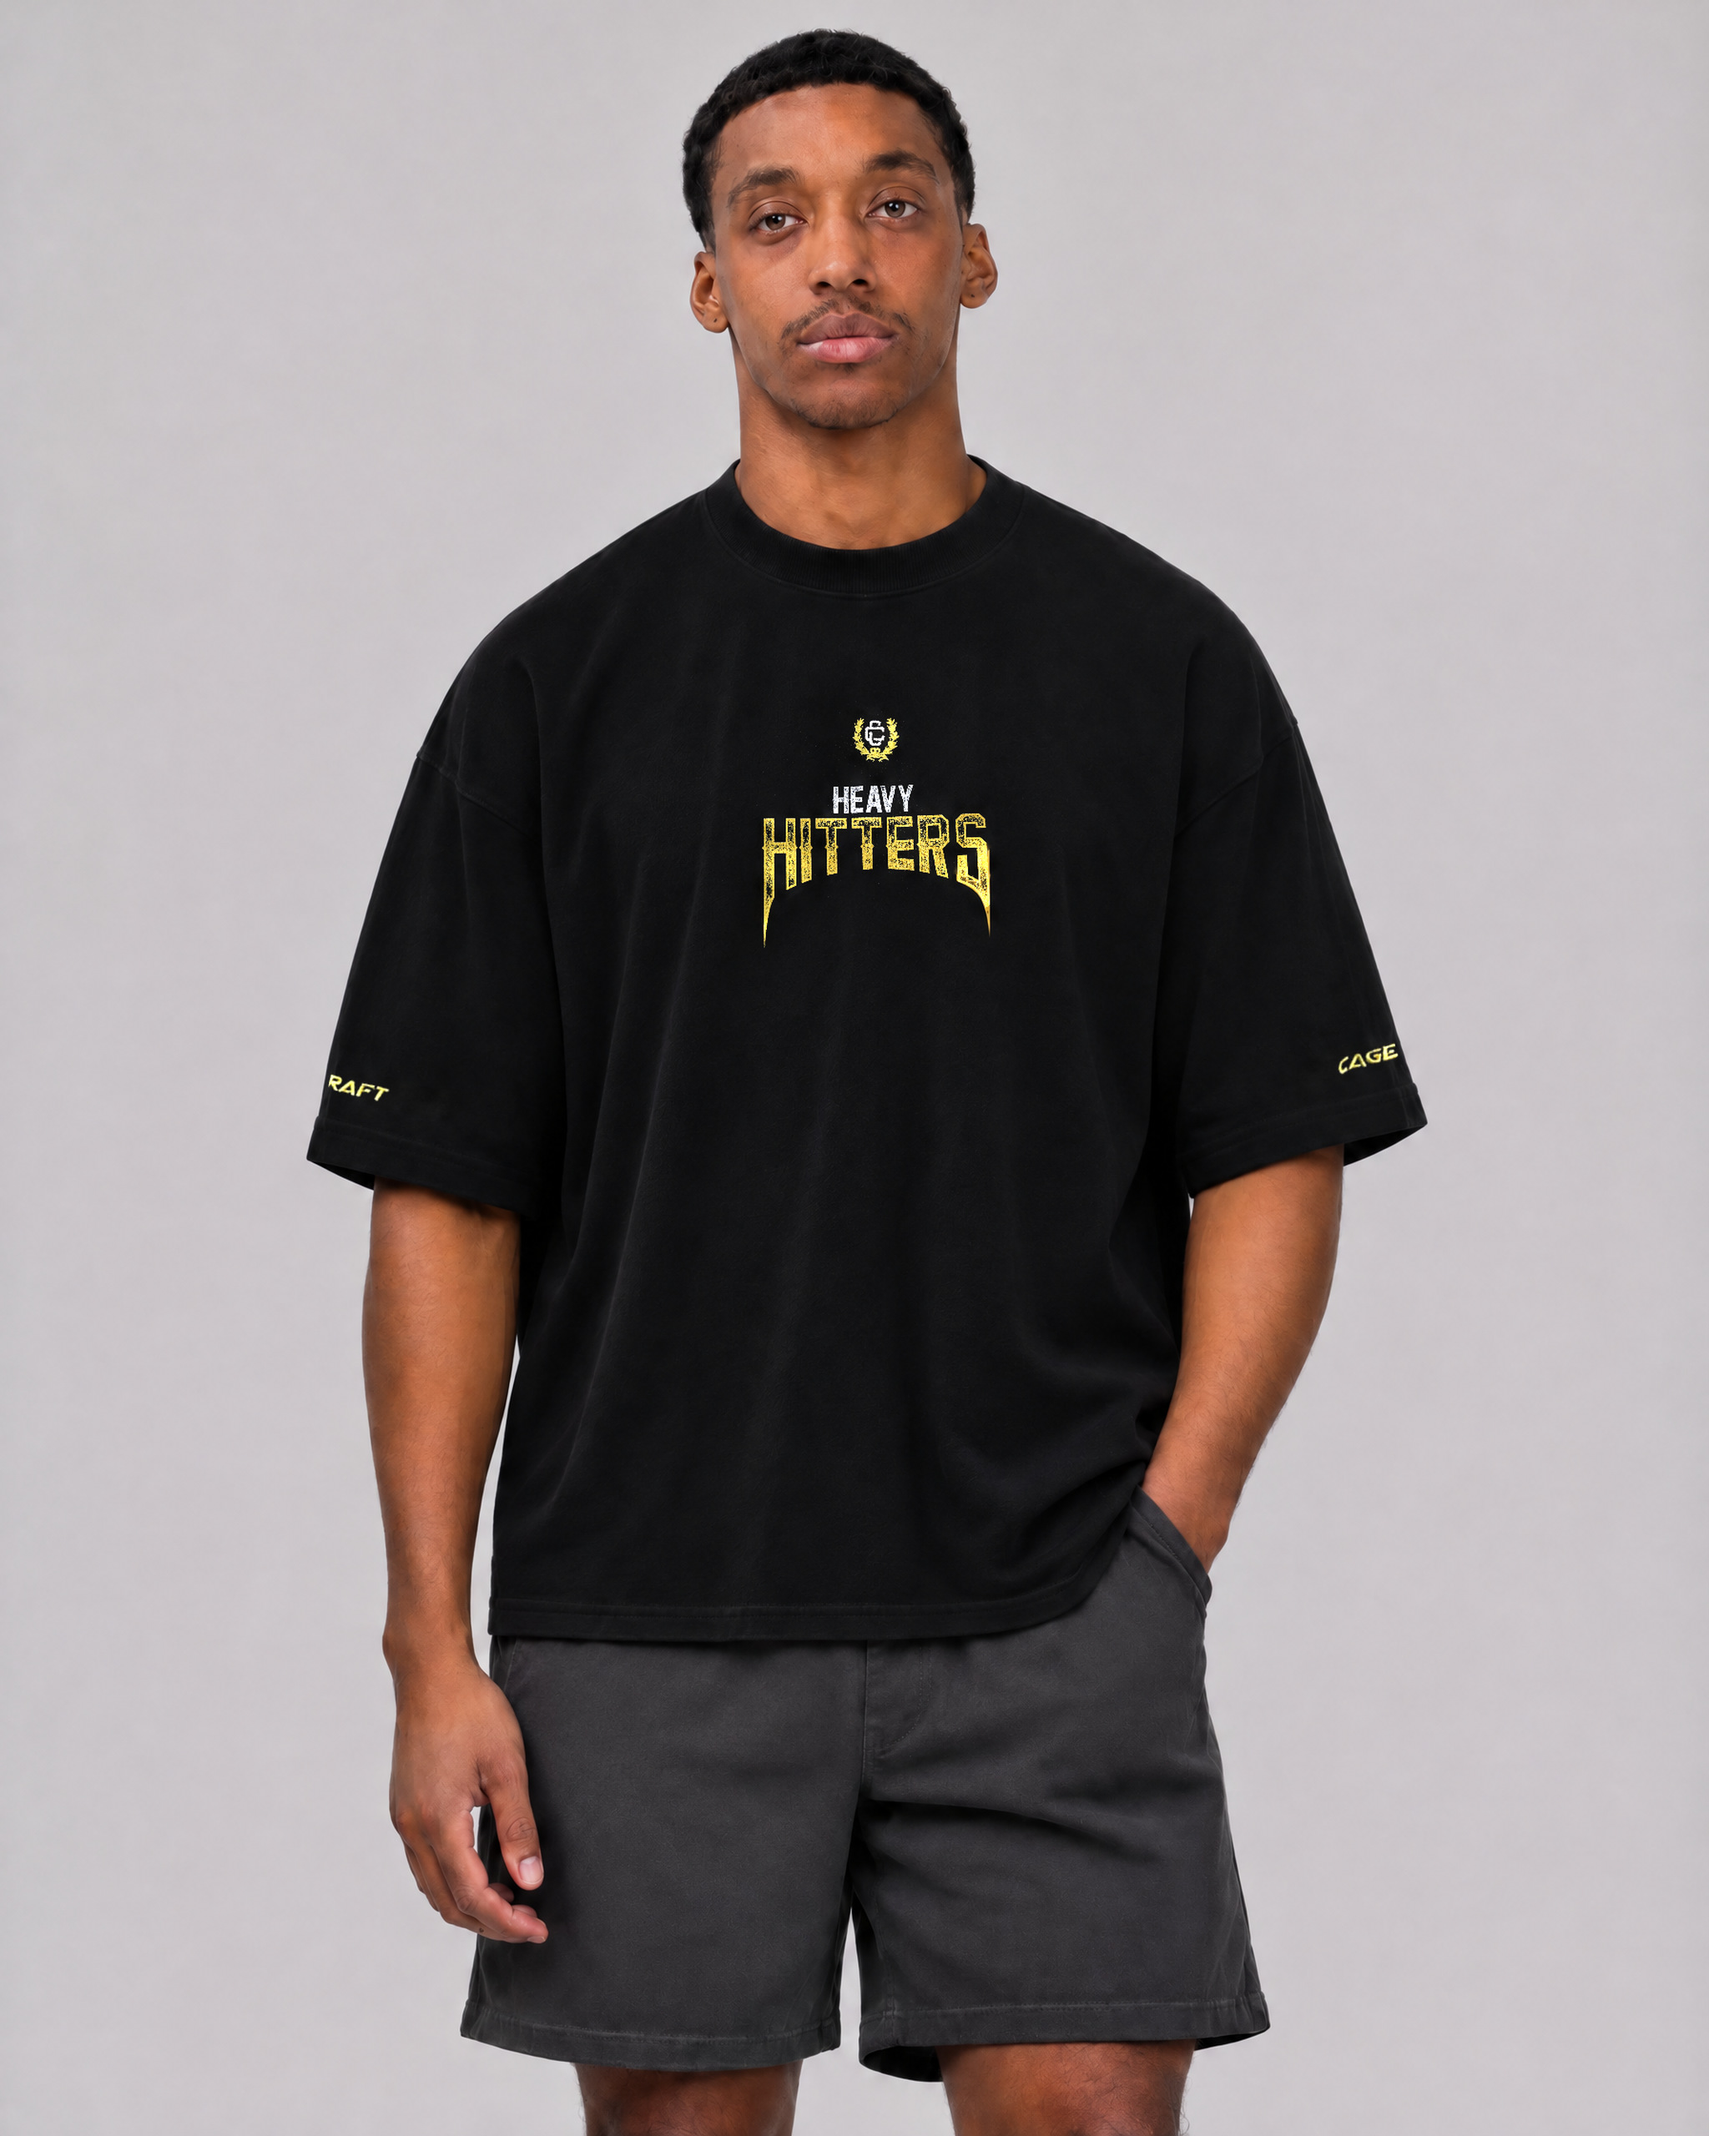
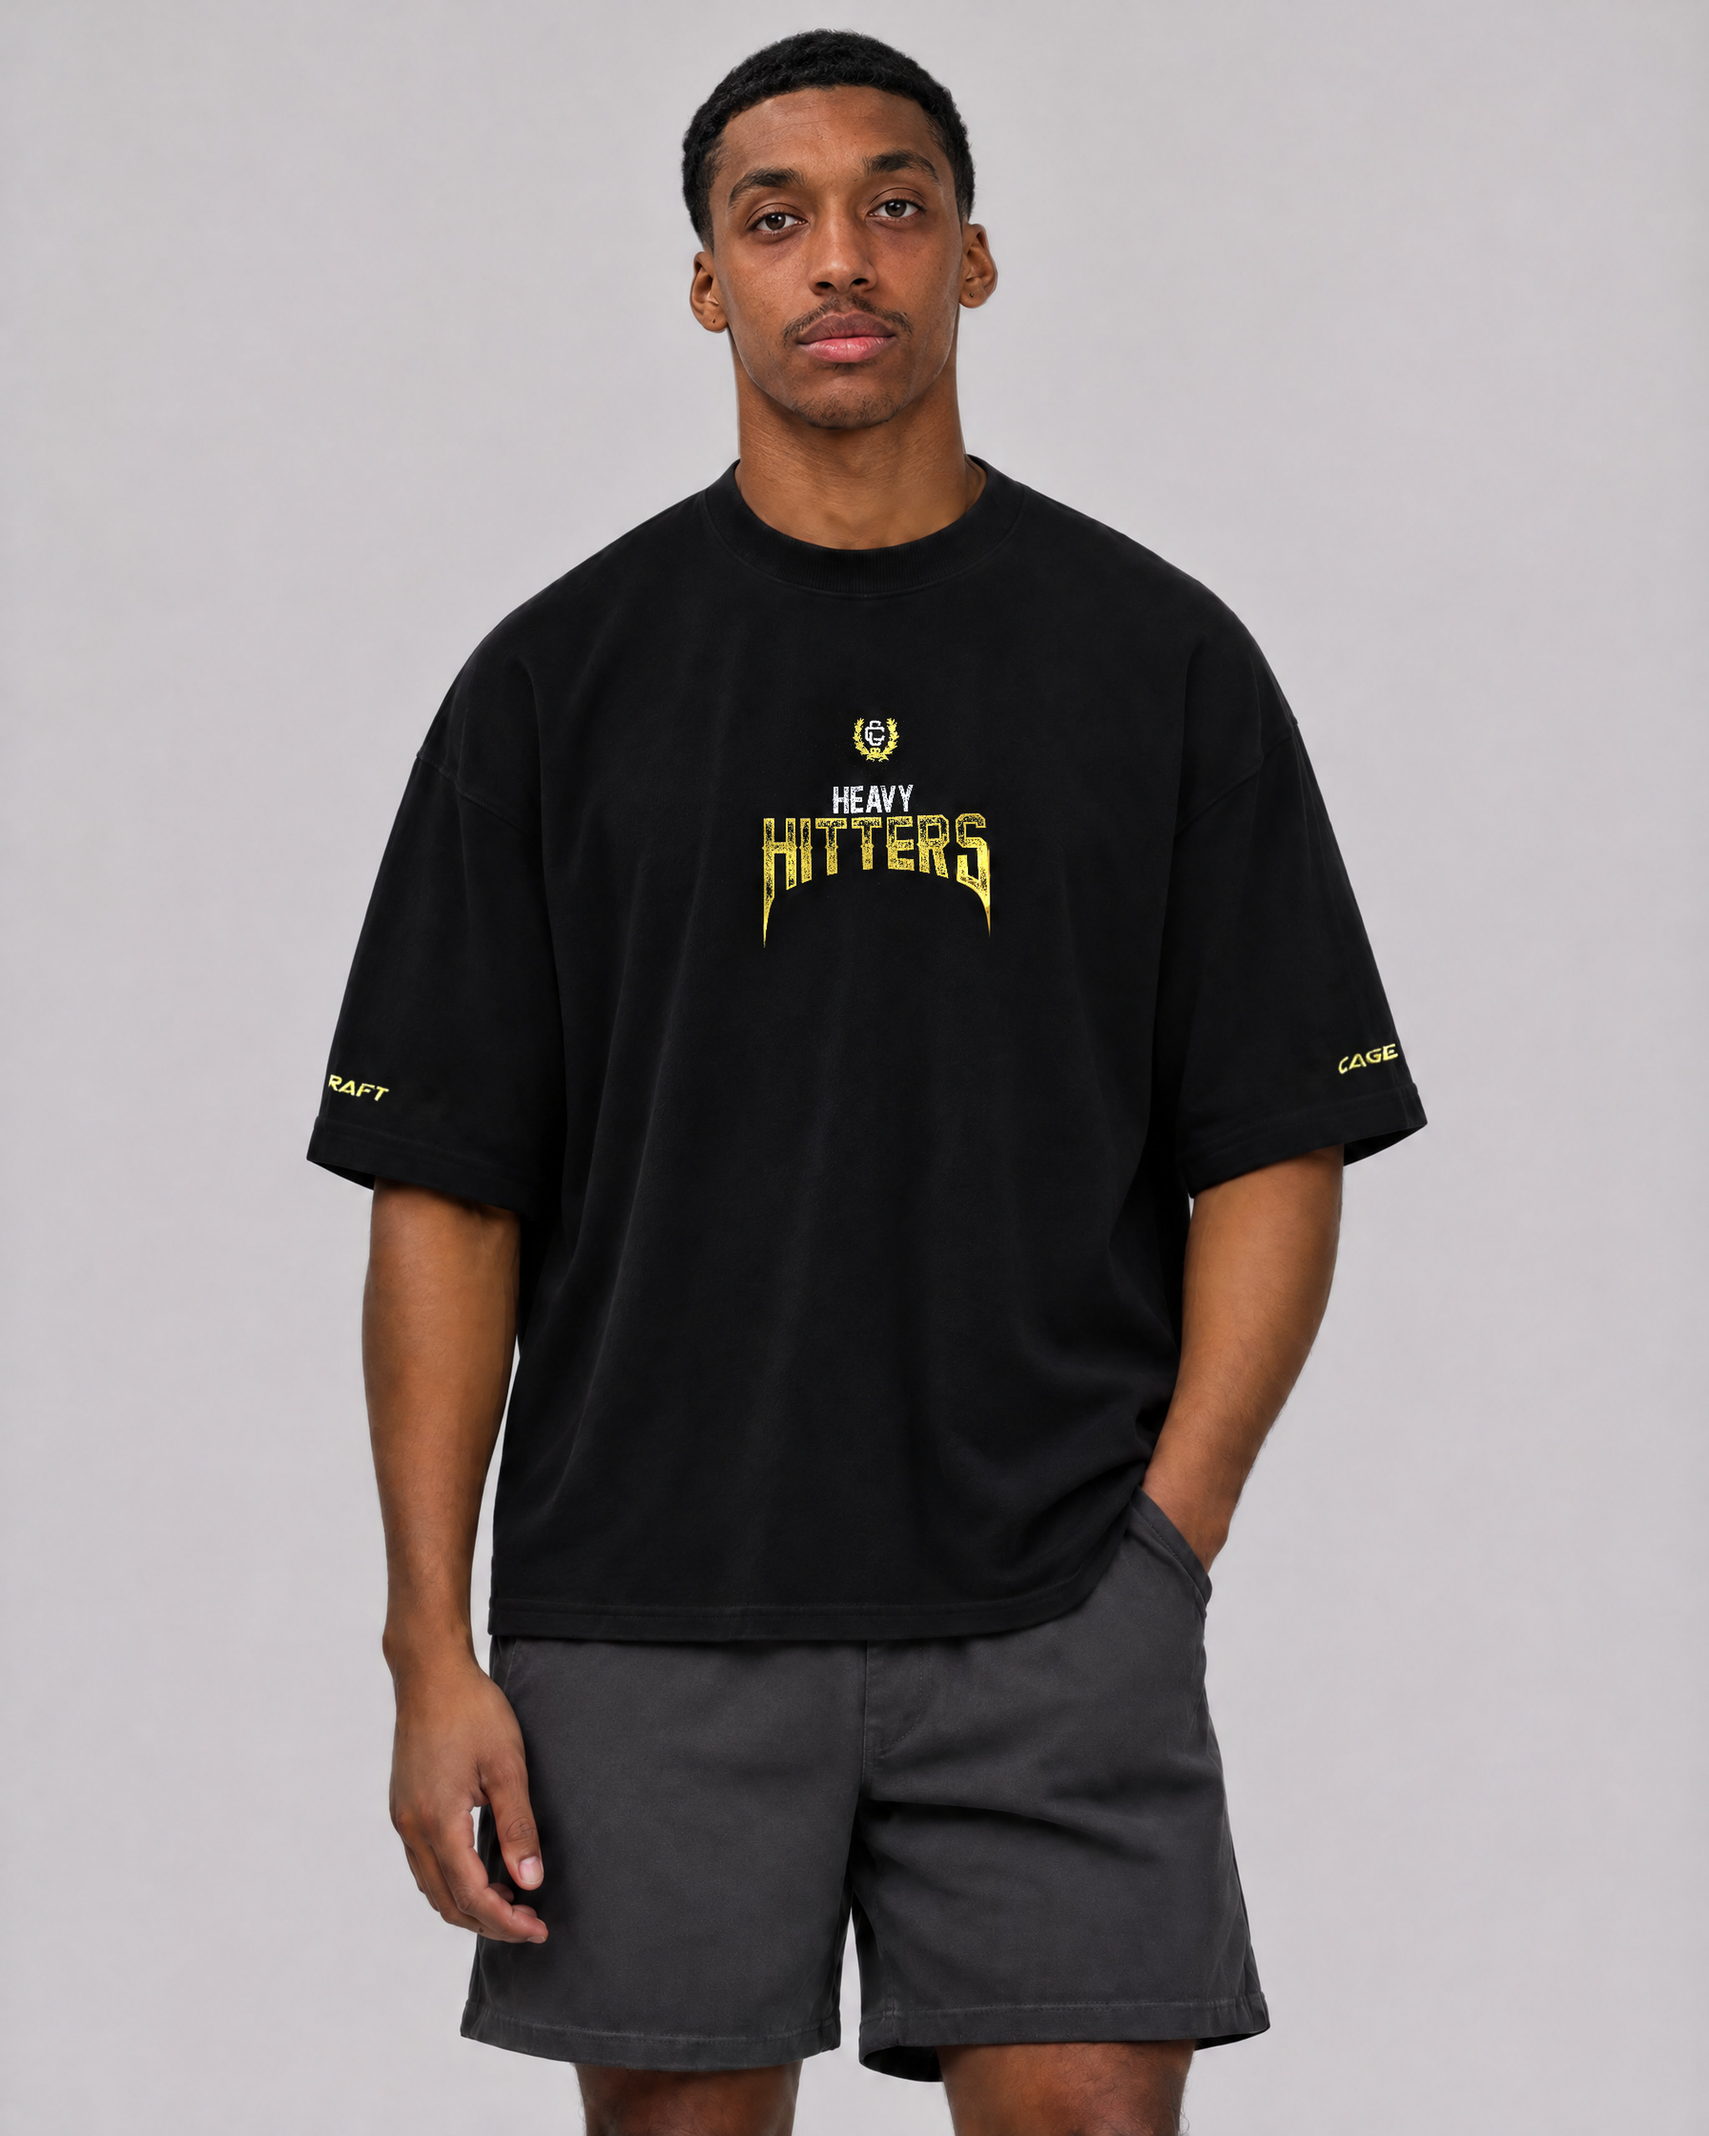
Heavy Hitters: restore original model faces on front shots
Claude-Session: https://claude.ai/code/session_01DwmoEpJ7m2nwLwYrrS6zRm

diff --git a/model-shots/tools/headfix.py b/model-shots/tools/headfix.py
@@ -1,0 +1,46 @@
+import cv2,numpy as np,sys
+orig_p,cur_p,out_p,x0,x1,y1=sys.argv[1],sys.argv[2],sys.argv[3],*map(int,sys.argv[4:7])
+orig=cv2.imread(orig_p); cur=cv2.imread(cur_p); H,W=cur.shape[:2]
+# 1) align original head onto current head (similarity transform from SIFT in head box)
+sift=cv2.SIFT_create(4000)
+def kp(im):
+    g=cv2.cvtColor(im,cv2.COLOR_BGR2GRAY); m=np.zeros_like(g); m[0:y1,x0:x1]=255
+    return sift.detectAndCompute(g,m)
+k1,d1=kp(orig); k2,d2=kp(cur)
+mm=cv2.BFMatcher().knnMatch(d1,d2,k=2); good=[a for a,b in mm if a.distance<0.75*b.distance]
+src=np.float32([k1[g.queryIdx].pt for g in good]); dst=np.float32([k2[g.trainIdx].pt for g in good])
+A,inl=cv2.estimateAffinePartial2D(src,dst,method=cv2.RANSAC,ransacReprojThreshold=3)
+print('matches',len(good),'inliers',int(inl.sum()),'A',A.round(3).tolist())
+ow=cv2.warpAffine(orig,A,(W,H),flags=cv2.INTER_CUBIC,borderMode=cv2.BORDER_REFLECT)
+# 2) head/neck mask: non-background, non-shirt pixels inside head box, above collar
+g=cv2.cvtColor(cur,cv2.COLOR_BGR2GRAY).astype(int)
+b,gg,r=[cur[...,i].astype(int) for i in range(3)]
+bg=(np.abs(r-gg)<12)&(np.abs(gg-b)<12)&(g>150)
+shirt=g<40
+m=np.zeros((H,W),np.uint8); m[0:y1,x0:x1]=255
+m[bg]=0; m[shirt & (np.arange(H)[:,None]>y1-120)]=0
+m=cv2.morphologyEx(m,cv2.MORPH_OPEN,np.ones((5,5),np.uint8))
+n,lab,st,_=cv2.connectedComponentsWithStats(m); keep=1+np.argmax(st[1:,4]); m=((lab==keep)*255).astype(np.uint8)
+m=cv2.morphologyEx(m,cv2.MORPH_CLOSE,cv2.getStructuringElement(cv2.MORPH_ELLIPSE,(25,25)))
+m=cv2.dilate(m,np.ones((3,3),np.uint8),iterations=2)
+# keep only pixels that are head/neck in BOTH images, and never the current shirt
+og=cv2.cvtColor(ow,cv2.COLOR_BGR2GRAY).astype(int); ob,ogg,orr=[ow[...,i].astype(int) for i in range(3)]
+obg=(np.abs(orr-ogg)<12)&(np.abs(ogg-ob)<12)&(og>150)
+m[obg]=0
+sh=cv2.dilate((g<45).astype(np.uint8),np.ones((3,3),np.uint8),iterations=3)>0
+m[sh & (np.arange(H)[:,None]>y1-200)]=0
+m=cv2.erode(m,np.ones((3,3),np.uint8),iterations=1)
+mf=cv2.GaussianBlur(m.astype(np.float32)/255,(0,0),2.5)[...,None]
+# fade the blend out toward the collar so the neck joins smoothly
+fade=np.clip((y1-np.arange(H))/60.0,0,1)[:,None,None]; mf=mf*fade
+# 3) skin tone of everything else (arms/hands/legs) back to the original's
+def skinmask(im):
+    hsv=cv2.cvtColor(im,cv2.COLOR_BGR2HSV)
+    s=((hsv[...,0]<25)&(hsv[...,1]>50)&(hsv[...,2]>40)).astype(np.float32)
+    return cv2.GaussianBlur(s,(0,0),3)
+so=skinmask(orig)>0.5; sc=skinmask(cur)
+gain=orig[so].reshape(-1,3).mean(0)/cur[sc>0.5].reshape(-1,3).mean(0)
+print('skin gain',gain.round(3))
+cf=cur.astype(np.float32); cf=cf*(1-sc[...,None])+cf*gain*sc[...,None]
+out=cf*(1-mf)+ow.astype(np.float32)*mf
+cv2.imwrite(out_p,out.clip(0,255).astype(np.uint8)); cv2.imwrite(out_p.replace('.png','_mask.png'),(mf[...,0]*255).astype(np.uint8))

diff --git a/model-shots/README.md b/model-shots/README.md
@@ -24,7 +24,12 @@ so no print, embroidery or lettering comes from the AI model.
    the torso, falling straight from the chest; shoulder seam dropped a few cm; sleeves hang DOWN
    along the arm, slightly loose, ending 3–4 cm above the elbow (no sideways flare); hem at the top
    of the thigh: on a front full-body shot, just below the wrist, about halfway down the hand. Then re-run steps 3–4.
-6. **Check.** Compare against the flat lays at 1:1 and fix any edge, scale or crop errors.
+6. **Restore the face** (`tools/headfix.py`). Every Higgsfield edit re-draws the whole image, so
+   faces drift (warmer skin, harder contrast, changing features) over repeated edits. After the last
+   edit, put the head from the first-round generation back: SIFT-aligned, blended only where both
+   images show head/neck, with arm and leg skin tone matched to the original.
+   `python3 tools/headfix.py <first-gen.png> <current.png> <out.png> <x0> <x1> <collar_y>`
+7. **Check.** Compare against the flat lays at 1:1 and fix any edge, scale or crop errors.
 
 ## Re-running for a new tee
 
